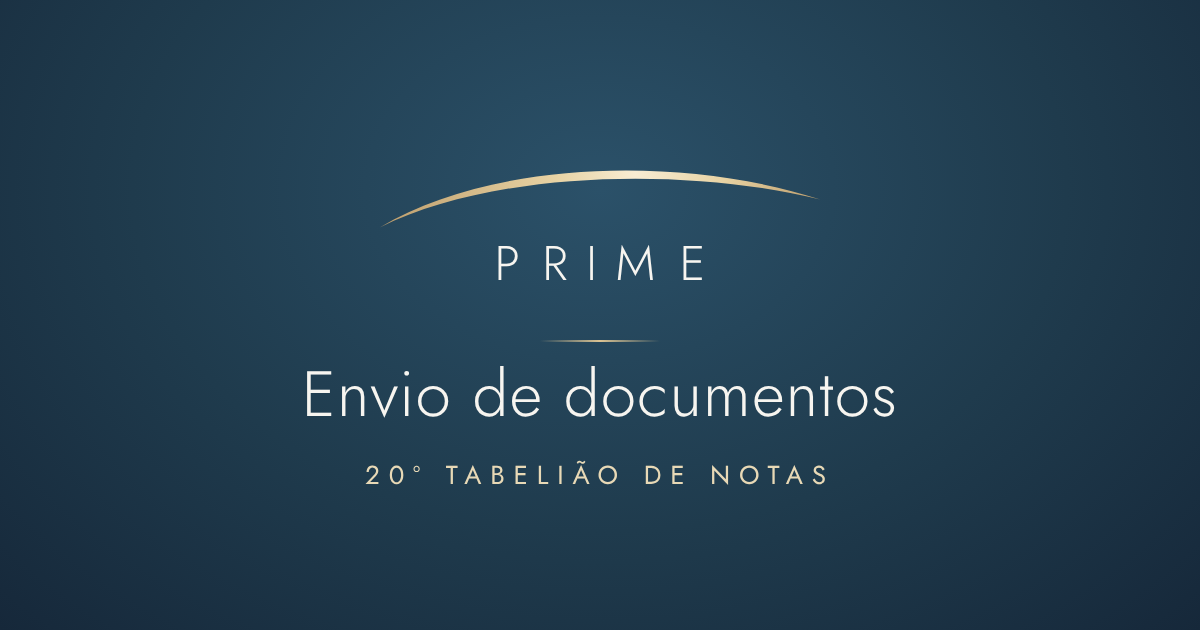
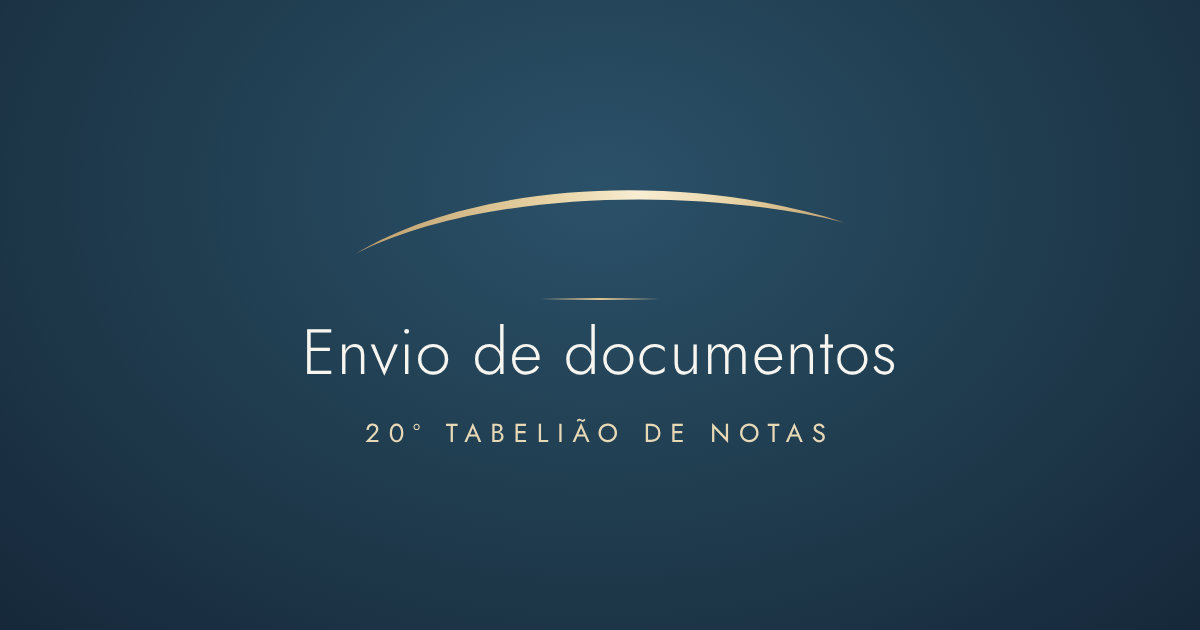
Link de envio: topo sem PRIME com a escrevente, regime para todo casado, preenchimento do celular e falecido do inventário com estado civil na data do óbito
Claude-Session: https://claude.ai/code/session_013kvdtZQRheQGSJimNJpCGS

diff --git a/enviar.html b/enviar.html
@@ -24,14 +24,17 @@
 }
 *{box-sizing:border-box;margin:0}
 [hidden]{display:none!important}
-html{-webkit-text-size-adjust:100%}
+html{-webkit-text-size-adjust:100%;scroll-padding-bottom:170px;scroll-padding-top:20px}
 body{font-family:'Inter',-apple-system,BlinkMacSystemFont,'Segoe UI',sans-serif;background:var(--fundo);color:var(--tinta);
   font-size:17px;line-height:1.5;padding:0 16px calc(150px + env(safe-area-inset-bottom))}
 .miolo{max-width:600px;margin:0 auto}
-.topo{margin:0 -16px;padding:calc(22px + env(safe-area-inset-top)) 16px 18px;background:var(--petroleo);text-align:center}
-.topo svg{display:block;height:58px;width:auto;margin:0 auto}
-.orgao{font-family:'Jost',sans-serif;font-weight:400;font-size:13px;letter-spacing:.28em;text-indent:.28em;text-transform:uppercase;color:#E8D9B6;margin-top:6px}
-.titulo{text-align:center;padding:24px 0 6px}
+.topo{margin:0 -16px;padding:calc(24px + env(safe-area-inset-top)) 16px 20px;background:var(--petroleo);text-align:center}
+.topo svg{display:block;height:46px;width:auto;margin:0 auto}
+.orgao{font-family:'Jost',sans-serif;font-weight:400;font-size:15px;letter-spacing:.26em;text-indent:.26em;text-transform:uppercase;color:var(--champagne);margin-top:8px}
+.escrevente{margin-top:16px;font-size:15.5px;color:var(--tinta-2);line-height:1.5}
+.escrevente b{color:var(--tinta);font-weight:600}
+.escrevente a{color:var(--petroleo);font-weight:600;text-decoration:none;border-bottom:1.5px solid var(--champagne)}
+.titulo{text-align:center;padding:22px 0 6px}
 h1{font-family:'Jost',sans-serif;font-weight:400;font-size:32px;line-height:1.15;color:var(--tinta)}
 .sub{color:var(--tinta-2);font-size:16.5px;margin-top:8px}
 .ato{display:inline-block;margin-top:12px;padding:7px 16px;border:1.5px solid var(--linha-forte);border-radius:99px;background:var(--sup);font-size:15px;font-weight:500}
@@ -117,13 +120,14 @@ body.concluido .formulario,body.concluido .rodape,body.concluido .lgpd,body.inva
 <body>
 <div class="miolo">
   <header class="topo">
-    <svg viewBox="0 0 600 190" role="img" aria-label="PRIME"><defs><linearGradient id="arco" x1="0" y1="0" x2="1" y2="0"><stop offset="0%" stop-color="#BE9E6C"/><stop offset="40%" stop-color="#E8D3A4"/><stop offset="58%" stop-color="#F8EDD3"/><stop offset="78%" stop-color="#E8D3A4"/><stop offset="100%" stop-color="#BE9E6C"/></linearGradient></defs><path d="M64,98 C184,26 388,20 536,68 C388,32 184,38 64,98 Z" fill="url(#arco)"/><text x="300" y="154" text-anchor="middle" font-family="'Jost','Century Gothic','Futura',sans-serif" font-weight="300" font-size="52" fill="#F7F5F0"><tspan>P</tspan><tspan dx="24">R</tspan><tspan dx="20">I</tspan><tspan dx="20">M</tspan><tspan dx="26">E</tspan></text></svg>
-    <div class="orgao">20º Tabelião de Notas</div>
+    <svg viewBox="0 0 600 90" role="img" aria-label="20º Tabelião de Notas"><defs><linearGradient id="arco" x1="0" y1="0" x2="1" y2="0"><stop offset="0%" stop-color="#BE9E6C"/><stop offset="40%" stop-color="#E8D3A4"/><stop offset="58%" stop-color="#F8EDD3"/><stop offset="78%" stop-color="#E8D3A4"/><stop offset="100%" stop-color="#BE9E6C"/></linearGradient></defs><path d="M64,72 C184,0 388,-6 536,42 C388,6 184,12 64,72 Z" fill="url(#arco)"/></svg>
   </header>
   <div class="titulo">
     <h1>Envio de documentos</h1>
+    <div class="orgao">20º Tabelião de Notas</div>
     <p class="sub" id="intro">Preencha os seus dados e, no fim, anexe os documentos. Não precisa de cadastro nem senha.</p>
     <span class="ato" id="ato" hidden></span>
+    <p class="escrevente">Escrevente <b>Shirley Dantas</b><br><a href="https://wa.me/5511954929643" rel="noopener">WhatsApp (11) 95492-9643</a></p>
   </div>
 
   <div class="formulario" id="formulario"></div>
@@ -160,7 +164,7 @@ const kb=n=>n>1048576?(n/1048576).toFixed(1).replace('.',',')+' MB':Math.max(1,M
 
 const token=(location.pathname.match(/\/e\/([A-Za-z0-9_-]+)/)||[])[1]||new URLSearchParams(location.search).get('t')||'';
 let pedido=null;
-const E={ pessoas:{}, campos:{}, banco:{}, filhos:[], adv:{}, clausulas:{}, obs:'', arquivos:{} }; // arquivos: chave -> [{id,file,estado,erro,pct}]
+const E={ pessoas:{}, falecidos:{}, campos:{}, banco:{}, filhos:[], adv:{}, clausulas:{}, obs:'', arquivos:{} }; // arquivos: chave -> [{id,file,estado,erro,pct}]
 let seq=0, enviando=false;
 
 // ── Carregar o pedido ─────────────────────────────────────────────────
@@ -178,6 +182,7 @@ async function carregar(){
   pedido.blocos.forEach(b=>{
     if(b.k==='pessoa') E.pessoas[b.id]=(b.papeis||['Parte']).map(p=>novaPessoa(p));
     if(b.k==='filhos') E.filhos=[];
+    if(b.k==='falecido') E.falecidos[b.id]={nome:'',ec:'',regime:'',conj:{nome:'',prof:''}};
   });
   desenharTudo();
 }
@@ -277,6 +282,19 @@ function certidoes(p,chave,b){
   else if(ec==='Separado(a)') slot(chave+'.cert','Certidão de casamento, com a averbação da separação');
   else slot(chave+'.cert','Certidão de estado civil',false,'Nascimento (solteiro) ou casamento (casado, divorciado, separado ou viúvo). Escolha o estado civil acima e o nome certo aparece.');
 }
+// O endereço mora num bloco próprio, e é só ele que se refaz quando o CEP responde: o resto da
+// página (e o que a pessoa está digitando) não se mexe.
+function htmlEndereco(b,i){
+  const p=E.pessoas[b.id][i], k=`${b.id}.${i}`, A=`data-b="${b.id}" data-i="${i}"`;
+  if(p.rua&&p.cidade&&!p.editEnd) return `<div class="campo"><label>Endereço</label><div class="dica" style="margin:0;color:var(--tinta);font-size:16.5px">${esc([p.rua,p.bairro,[p.cidade,p.uf].filter(Boolean).join('/')].filter(Boolean).join(' — '))} <button type="button" class="remover" data-editend="${b.id}|${i}" style="padding:4px 8px">Editar</button></div></div>`+input('Complemento',p.compl,`${A} data-f="compl" autocomplete="address-line2"`);
+  return input('Rua',p.rua,`${A} data-f="rua" id="rua-${k}" autocomplete="address-line1"`,true)+
+    `<div class="duas">${input('Complemento',p.compl,`${A} data-f="compl" autocomplete="address-line2"`)}${input('Bairro',p.bairro,`${A} data-f="bairro" id="bairro-${k}" autocomplete="address-level3"`)}</div>`+
+    `<div class="tres">${input('Cidade',p.cidade,`${A} data-f="cidade" id="cidade-${k}" autocomplete="address-level2"`)}<div class="campo"><label>UF</label><select ${A} data-f="uf" id="uf-${k}" autocomplete="address-level1"><option value=""></option>${UFS.map(u=>`<option${u===p.uf?' selected':''}>${u}</option>`).join('')}</select></div></div>`;
+}
+function refazEndereco(blocoId,i){
+  const el=document.getElementById(`end-${blocoId}.${i}`), b=pedido.blocos.find(x=>x.id===blocoId);
+  if(el&&b) el.innerHTML=htmlEndereco(b,i);
+}
 function htmlPessoa(b,i,n){
   const lista=E.pessoas[b.id], p=lista[i], k=`${b.id}.${i}`, A=`data-b="${b.id}" data-i="${i}"`;
   const simples=!!b.simples;
@@ -284,18 +302,14 @@ function htmlPessoa(b,i,n){
   let h=`<div class="bloco" data-bloco="${b.id}"><h2><span class="num${p.nome?' ok':''}">${n}</span>${esc(p.papel)}</h2>`;
   h+=input('Nome completo',p.nome,`${A} data-f="nome" autocomplete="name"`,true);
   if(!simples) h+=select('Estado civil',p.ec,ESTADOS_CIVIS,`${A} data-f="ec"`,true);
-  h+=input('Profissão',p.prof,`${A} data-f="prof"`,true);
-  h+=`<div class="duas"><div>${input('CEP',p.cep,`${A} data-f="cep" inputmode="numeric" autocomplete="off" maxlength="9"`,true)}</div><div>${input('Número',p.num,`${A} data-f="num" autocomplete="off"`,true)}</div></div><div class="dica" id="cepmsg-${k}" hidden style="color:var(--critico);margin:-6px 0 10px"></div>`;
-  const fim=p.rua&&p.cidade&&!p.editEnd;
-  if(fim) h+=`<div class="campo"><label>Endereço</label><div class="dica" style="margin:0;color:var(--tinta);font-size:16.5px">${esc([p.rua,p.bairro,[p.cidade,p.uf].filter(Boolean).join('/')].filter(Boolean).join(' — '))} <button type="button" class="remover" data-editend="${b.id}|${i}" style="padding:4px 8px">Editar</button></div></div>`+input('Complemento',p.compl,`${A} data-f="compl"`);
-  else{
-    h+=input('Rua',p.rua,`${A} data-f="rua" id="rua-${k}" autocomplete="off"`,true);
-    h+=`<div class="duas">${input('Complemento',p.compl,`${A} data-f="compl"`)}${input('Bairro',p.bairro,`${A} data-f="bairro" id="bairro-${k}"`)}</div>`;
-    h+=`<div class="tres">${input('Cidade',p.cidade,`${A} data-f="cidade" id="cidade-${k}"`)}<div class="campo"><label>UF</label><select ${A} data-f="uf" id="uf-${k}"><option value=""></option>${UFS.map(u=>`<option${u===p.uf?' selected':''}>${u}</option>`).join('')}</select></div></div>`;
-  }
+  h+=input('Profissão',p.prof,`${A} data-f="prof" autocomplete="organization-title"`,true);
+  h+=`<div class="duas"><div>${input('CEP',p.cep,`${A} data-f="cep" inputmode="numeric" autocomplete="postal-code" maxlength="9"`,true)}</div><div>${input('Número',p.num,`${A} data-f="num" autocomplete="off"`,true)}</div></div><div class="dica" id="cepmsg-${k}" hidden style="color:var(--critico);margin:-6px 0 10px"></div>`;
+  h+=`<div id="end-${k}">${htmlEndereco(b,i)}</div>`;
   // O que vem depois dos dados da pessoa: se é casada, o regime e o cônjuge logo em seguida.
+  if(!simples&&p.ec==='Casado(a)'){
+    h+=opcoesRadio('Regime de bens do casamento',p.regime,REGIMES,`${A} data-f="regime"`,true,`regime-${k}`);
+  }
   if(!simples&&p.ec==='Casado(a)'&&b.conjuge){
-    h+=opcoesRadio('Regime de bens do casamento',p.regime,REGIMES,`${A} data-f="regime"`,false,`regime-${k}`);
     h+=`<div class="sec-conj"><h3 style="margin-top:0">Dados do cônjuge</h3>`+
       input('Nome completo do cônjuge',p.conj.nome,`${A} data-c="nome"`,true)+input('Profissão do cônjuge',p.conj.prof,`${A} data-c="prof"`,true)+
       `<label class="marca"><input type="checkbox" ${A} data-c="mesmo"${p.conj.mesmo?' checked':''}> Mora no mesmo endereço</label>`+
@@ -305,15 +319,37 @@ function htmlPessoa(b,i,n){
   slot(k+'.rg','RG ou CNH (frente e verso)',false,DICA_CPF);
   if(!simples){
     certidoes(p,k,b);
-    if(p.ec==='Casado(a)'&&b.conjuge){
-      if(REGIMES_COM_PACTO.includes(p.regime)){ slot(k+'.pacto','Escritura do pacto antenupcial'); slot(k+'.pactoreg','Certidão do registro do pacto no Registro de Imóveis'); }
-      slot(k+'.rgconj','RG ou CNH do cônjuge',false,DICA_CPF);
-    }
+    if(p.ec==='Casado(a)'&&REGIMES_COM_PACTO.includes(p.regime)){ slot(k+'.pacto','Escritura do pacto antenupcial'); slot(k+'.pactoreg','Certidão do registro do pacto no Registro de Imóveis'); }
+    if(p.ec==='Casado(a)'&&b.conjuge) slot(k+'.rgconj','RG ou CNH do cônjuge',false,DICA_CPF);
   }
   if(lista.length>1&&i>=(b.papeis||[]).length) h+=`<div class="repete"><span></span><button class="remover" data-remover="${b.id}|${i}">Remover esta pessoa</button></div>`;
   return h+'</div>';
 }
+// O falecido: o estado civil que ele tinha na data do óbito decide a certidão, o regime e o cônjuge.
+function htmlFalecido(b,n){
+  const f=E.falecidos[b.id], A=`data-fal="${b.id}"`;
+  GRUPO='Falecido(a)'+(f.nome?' — '+f.nome:'');
+  let h=`<div class="bloco"><h2><span class="num${f.nome?' ok':''}">${n}</span>Falecido(a)</h2>`;
+  h+=input('Nome completo do falecido(a)',f.nome,`${A} data-f="nome"`,true);
+  h+=select('Estado civil na data do óbito',f.ec,ESTADOS_CIVIS,`${A} data-f="ec"`,true);
+  if(f.ec==='Casado(a)'){
+    h+=opcoesRadio('Regime de bens do casamento',f.regime,REGIMES,`${A} data-f="regime"`,true,`regime-${b.id}`);
+    h+=`<div class="sec-conj"><h3 style="margin-top:0">Dados do cônjuge</h3>`+input('Nome completo do cônjuge',f.conj.nome,`${A} data-fc="nome"`,true)+input('Profissão do cônjuge',f.conj.prof,`${A} data-fc="prof"`)+`</div>`;
+  }
+  slot(b.id+'.rg','RG ou CNH do falecido(a) (com o CPF)',false,DICA_CPF);
+  slot(b.id+'.obito','Certidão de óbito');
+  if(f.ec==='Solteiro(a)') slot(b.id+'.cert','Certidão de nascimento');
+  else if(f.ec==='Casado(a)'){
+    slot(b.id+'.cert','Certidão de casamento');
+    if(REGIMES_COM_PACTO.includes(f.regime)){ slot(b.id+'.pacto','Escritura do pacto antenupcial'); slot(b.id+'.pactoreg','Certidão do registro do pacto no Registro de Imóveis'); }
+    slot(b.id+'.rgconj','RG ou CNH do cônjuge',false,DICA_CPF);
+  }
+  else if(f.ec) slot(b.id+'.cert',f.ec==='Viúvo(a)'?'Certidão de casamento, com a averbação do óbito do cônjuge':f.ec==='Divorciado(a)'?'Certidão de casamento, com a averbação do divórcio':'Certidão de casamento, com a averbação da separação');
+  else slot(b.id+'.cert','Certidão de estado civil',false,'Escolha acima o estado civil na data do óbito e o nome certo aparece.');
+  return h+'</div>';
+}
 function htmlBloco(b,n){
+  if(b.k==='falecido') return htmlFalecido(b,n.v++);
   if(b.k==='pessoa'){
     let h=E.pessoas[b.id].map((_,i)=>htmlPessoa(b,i,n.v++)).join('');
     const opt=(b.papeis||['Parte']);
@@ -387,7 +423,16 @@ function htmlCampo(bid,c){
   if(c.tipo==='moeda') return input(c.rotulo,v,`${A} inputmode="decimal" placeholder="0,00"`,!c.opcional);
   return input(c.rotulo,v,A,!c.opcional);
 }
+function marcaFoco(){
+  const a=document.activeElement; if(!a||a===document.body||!a.closest||!a.closest('#formulario')) return null;
+  const sel=a.id?`#${CSS.escape(a.id)}`:['data-b','data-i','data-f','data-c','data-cb','data-banco','data-fal','data-fc','data-adv','data-filho'].filter(x=>a.hasAttribute(x)).map(x=>`[${x}="${a.getAttribute(x)}"]`).join('');
+  return sel&&a.tagName!=='BUTTON'&&a.type!=='file'&&a.type!=='radio'&&a.type!=='checkbox'?{sel:a.tagName.toLowerCase()+sel,ini:a.selectionStart,fim:a.selectionEnd}:null;
+}
+function voltaFoco(m){
+  if(!m) return; try{ const el=document.querySelector(m.sel); if(!el) return; el.focus({preventScroll:true}); if(m.ini!=null&&el.setSelectionRange) el.setSelectionRange(m.ini,m.fim); }catch(_){ }
+}
 function desenharTudo(){
+  const foco=marcaFoco(), rolagem=window.scrollY;
   const n={v:1};
   FIM=[]; GRUPO='';
   const corpo=pedido.blocos.map(b=>htmlBloco(b,n)).join('');
@@ -395,6 +440,7 @@ function desenharTudo(){
   FIM=null;
   $('#formulario').innerHTML=corpo+docs+
     `<div class="bloco"><h2><span class="num">${n.v}</span>Observações</h2><div class="campo"><label>Quer deixar algum recado para a nossa equipe, para constar na minuta? <span class="opcional-nota">(opcional)</span></label><textarea id="obs">${esc(E.obs)}</textarea></div></div>`;
+  voltaFoco(foco); window.scrollTo(0,rolagem);
   resumo();
 }
 
@@ -427,6 +473,7 @@ const dataOk=v=>{ const m=String(v||'').match(/^(\d{2})\/(\d{2})\/(\d{4})$/); if
 raiz.addEventListener('input',e=>{
   const t=e.target, f=t.dataset.f; if(t.id==='obs'){E.obs=t.value;return;}
   if(t.dataset.mascara==='data'){ const v=mascaraData(t.value); if(v!==t.value) t.value=v; }
+  if(t.dataset.fal!==undefined){ const f=E.falecidos[t.dataset.fal]; if(t.dataset.fc) f.conj[t.dataset.fc]=t.value; else if(t.dataset.f!=='ec'&&t.dataset.f!=='regime') f[t.dataset.f]=t.value; resumo(); return; }
   if(t.dataset.b!==undefined){
     const p=E.pessoas[t.dataset.b][+t.dataset.i];
     if(t.dataset.c) { p.conj[t.dataset.c]=t.type==='checkbox'?t.checked:t.value; return; }
@@ -441,6 +488,7 @@ raiz.addEventListener('input',e=>{
 raiz.addEventListener('change',e=>{
   const t=e.target;
   if(t.dataset.f==='cep'&&t.dataset.b!==undefined){ const p=E.pessoas[t.dataset.b][+t.dataset.i]; p.cep=t.value; cep(t,p); }
+  if(t.dataset.fal!==undefined){ const f=E.falecidos[t.dataset.fal]; if(t.dataset.fc){ f.conj[t.dataset.fc]=t.value; resumo(); return; } f[t.dataset.f]=t.value; if(t.dataset.f==='ec'||t.dataset.f==='regime'){ desenharTudo(); return; } resumo(); return; }
   if(t.dataset.slot){ adicionar(t.dataset.slot,[...t.files]); t.value=''; return; }
   if(t.dataset.clausula){ E.clausulas[t.dataset.clausula]=t.checked; return; }
   if(t.dataset.b!==undefined){
@@ -461,7 +509,7 @@ raiz.addEventListener('click',e=>{
   else if(b.dataset.tirar){ const [c,id]=b.dataset.tirar.split('|'); tirar(c,+id); }
   else if(b.dataset.mais){ const bl=pedido.blocos.find(x=>x.id===b.dataset.mais); E.pessoas[bl.id].push(novaPessoa(proximoPapel(bl))); desenharTudo(); }
   else if(b.dataset.remover){ const [id,i]=b.dataset.remover.split('|'); E.pessoas[id].splice(+i,1); desenharTudo(); }
-  else if(b.dataset.editend){ const [id,i]=b.dataset.editend.split('|'); E.pessoas[id][+i].editEnd=true; desenharTudo(); }
+  else if(b.dataset.editend){ const [id,i]=b.dataset.editend.split('|'); E.pessoas[id][+i].editEnd=true; refazEndereco(id,+i); }
   else if(b.dataset.maisfilho){ E.filhos.push({}); desenharTudo(); }
   else if(b.dataset.rmfilho){ E.filhos.splice(+b.dataset.rmfilho,1); desenharTudo(); }
 });
@@ -479,8 +527,9 @@ async function cep(t,p){
     if(!j||j.erro){ aviso('Não achei esse CEP. Confira os números ou preencha a rua à mão.'); return; }
     cacheCep[d]=j; p.cepBuscado=d; aviso('');
     if(j.logradouro) p.rua=j.logradouro; if(j.bairro) p.bairro=j.bairro; if(j.localidade) p.cidade=j.localidade; if(j.uf) p.uf=j.uf;
-    p.editEnd=false; desenharTudo();
-    const n=document.querySelector(`[data-b="${t.dataset.b}"][data-i="${t.dataset.i}"][data-f="num"]`); if(n) n.focus();
+    p.editEnd=false; refazEndereco(t.dataset.b,+t.dataset.i); resumo();
+    // Só leva o cursor para o número se a pessoa ainda estiver no CEP: nunca rouba o campo em que ela está.
+    if(document.activeElement===t){ const n=document.querySelector(`[data-b="${t.dataset.b}"][data-i="${t.dataset.i}"][data-f="num"]`); if(n) n.focus(); }
   }catch(_){ aviso('Não consegui buscar o CEP agora. Preencha a rua, o bairro e a cidade à mão.'); }
 }
 
@@ -489,10 +538,18 @@ function faltas(){
   const f=[]; if(!pedido) return f;
   const tem=c=>(E.arquivos[c]||[]).some(x=>x.estado!=='erro');
   pedido.blocos.forEach(b=>{
-    if(b.k==='pessoa') E.pessoas[b.id].forEach((p,i)=>{
+    if(b.k==='falecido'){
+      const d=E.falecidos[b.id], k=b.id;
+      if(!d.nome) f.push('Falecido(a): nome'); if(!d.ec) f.push('Falecido(a): estado civil na data do óbito');
+      if(d.ec==='Casado(a)'){ if(!d.regime) f.push('Falecido(a): regime de bens'); if(!d.conj.nome) f.push('Falecido(a): dados do cônjuge'); }
+      if(!tem(k+'.rg')) f.push('Falecido(a): RG ou CNH'); if(!tem(k+'.obito')) f.push('Falecido(a): certidão de óbito');
+      if(d.ec&&!tem(k+'.cert')) f.push('Falecido(a): certidão de '+(d.ec==='Solteiro(a)'?'nascimento':'casamento'));
+    }
+    else if(b.k==='pessoa') E.pessoas[b.id].forEach((p,i)=>{
       const k=`${b.id}.${i}`, q=p.papel;
       if(!p.nome) f.push(`${q}: nome`); if(!b.simples&&!p.ec) f.push(`${q}: estado civil`); if(!p.prof) f.push(`${q}: profissão`);
       if(!(p.rua&&p.num)) f.push(`${q}: endereço`);
+      if(!b.simples&&p.ec==='Casado(a)'&&!p.regime) f.push(`${q}: regime de bens`);
       if(!tem(k+'.rg')) f.push(`${q}: RG ou CNH`);
       if(!b.simples&&p.ec&&!tem(k+'.cert')) f.push(`${q}: certidão de estado civil`);
       if(p.ec==='Casado(a)'&&b.conjuge&&!p.conj.nome) f.push(`${q}: dados do cônjuge`);
@@ -545,6 +602,10 @@ async function chamar(corpo){
 }
 function rotuloDoSlot(chave){
   const nomes={rg:'RG_CNH',cpf:'CPF',cert:'CERTIDAO_ESTADO_CIVIL',obito:'CERTIDAO_OBITO_CONJUGE',pacto:'PACTO_ANTENUPCIAL',pactoreg:'REGISTRO_DO_PACTO',rgconj:'RG_CNH_CONJUGE'};
+  for(const b of pedido.blocos) if(b.k==='falecido'&&chave.startsWith(b.id+'.')){
+    const suf=chave.slice(b.id.length+1), fal={rg:'RG_CNH_FALECIDO',obito:'CERTIDAO_OBITO_FALECIDO',cert:'CERTIDAO_ESTADO_CIVIL_FALECIDO',pacto:'PACTO_ANTENUPCIAL_FALECIDO',pactoreg:'REGISTRO_DO_PACTO_FALECIDO',rgconj:'RG_CNH_CONJUGE_DO_FALECIDO'};
+    if(fal[suf]) return {pessoa:E.falecidos[b.id].nome||'Falecido',papel:'Falecido(a)',tipo:fal[suf]};
+  }
   const m=chave.match(/^(.+)\.(\d+)\.(\w+)$/);
   if(m&&E.pessoas[m[1]]){ const p=E.pessoas[m[1]][+m[2]]; return {pessoa:p.nome||p.papel,papel:p.papel,tipo:nomes[m[3]]||m[3].toUpperCase()}; }
   if(m&&pedido.blocos.some(b=>b.k==='filhos'&&b.id===m[1])) return {pessoa:(E.filhos[+m[2]]||{}).nome||('Filho '+(+m[2]+1)),papel:'Filho(a)',tipo:'RG_CNH'};
@@ -560,6 +621,7 @@ function montarDados(){
   return { ato:pedido.ato, enviadoEm:new Date().toISOString(),
     pessoas:Object.entries(E.pessoas).flatMap(([bloco,l])=>l.map(p=>({bloco,papel:p.papel,nome:p.nome,estadoCivil:p.ec,profissao:p.prof,endereco:end(p),regime:p.regime||'',
       conjuge:p.ec==='Casado(a)'&&(p.conj.nome)?{nome:p.conj.nome,profissao:p.conj.prof,endereco:p.conj.mesmo?end(p):p.conj.end}:null}))),
+    falecidos:Object.entries(E.falecidos).map(([bloco,d])=>({bloco,nome:d.nome,estadoCivil:d.ec,regime:d.ec==='Casado(a)'?d.regime:'',conjuge:d.ec==='Casado(a)'&&d.conj.nome?{nome:d.conj.nome,profissao:d.conj.prof}:null})),
     campos:E.campos, banco:E.banco, advogado:E.adv, filhos:E.filhos, clausulas:Object.keys(E.clausulas).filter(k=>E.clausulas[k]), observacoes:E.obs };
 }
 async function enviarArquivo(chave,it){

diff --git a/pedido-docs.js b/pedido-docs.js
@@ -188,7 +188,7 @@
       if (pd !== 'donatario') S.push(secao('clausulas', 'Cláusulas', Object.keys(CLAUSULAS).map(function (k) { return item('clausula.' + k, CLAUSULAS[k], false); }), { tipo: 'clausulas' }));
     } else if (modelo === 'inventario') {
       S.push(secao('lista', '', [
-        item('falecido', 'Falecido(a) e cônjuge: RG, CPF, certidão de óbito e de casamento; pacto antenupcial, se houver'),
+        item('falecido', 'Falecido(a): RG, CPF, certidão de óbito, estado civil na data do óbito (e regime de bens e dados do cônjuge, se casado(a))'),
         item('falecido.testamento', 'Certidão de inexistência de testamento (você costuma buscar)', false),
         pessoa('herdeiros', 'Herdeiros', { papeis: ['Herdeiro(a)'], obito: true }),
         adv(item('advogado', 'Advogado(a): OAB, estado civil e endereço'))
@@ -322,9 +322,9 @@
     'imovel.contrato': DOC('Contrato', true),
     'bem.mat': DOC('Matrícula do imóvel'),
     'bem.divida': { k: 'docs', titulo: 'Dívida', docs: [{ id: 'contrato', rotulo: 'Contrato ou histórico da dívida' }], campos: [{ id: 'valor', rotulo: 'Valor da dívida (R$)', tipo: 'moeda' }] },
-    'falecido': { k: 'docs', titulo: 'Falecido(a)', campos: [{ id: 'nome', rotulo: 'Nome completo do falecido(a)', tipo: 'texto' }],
-      docs: [{ id: 'rg', rotulo: 'RG e CPF do falecido(a)' }, { id: 'obito', rotulo: 'Certidão de óbito' }, { id: 'casamento', rotulo: 'Certidão de casamento' },
-        { id: 'pacto', rotulo: 'Pacto antenupcial (se houver)', opcional: true }, { id: 'rgconj', rotulo: 'RG e CPF do cônjuge (se houver)', opcional: true }] },
+    // O falecido tem estado civil NA DATA DO ÓBITO: a página pergunta, e só então pede a certidão certa
+    // (nascimento, casamento com averbação) ou, se casado, o regime, o pacto e os dados do cônjuge.
+    'falecido': { k: 'falecido', titulo: 'Falecido(a)' },
     'falecido.testamento': DOC('Certidão de inexistência de testamento'),
     'advogado': { k: 'advogado', titulo: 'Advogado(a)' },
     'familia.filhos': { k: 'filhos', titulo: 'Filhos' },

diff --git a/apps-script/cartorio-drive-api.js b/apps-script/cartorio-drive-api.js
@@ -1553,6 +1553,13 @@ function montarFichaCliente(d, dataTxt, rotulos) {
       L.push("  Cônjuge: " + textoCliente(p.conjuge.nome, 120) + (p.conjuge.profissao ? ", " + textoCliente(p.conjuge.profissao, 80) : "") + (p.conjuge.endereco ? ", " + textoCliente(p.conjuge.endereco, 300) : ""));
     }
   });
+  (Array.isArray(d.falecidos) ? d.falecidos : []).slice(0, 5).forEach(function (f) {
+    f = f || {};
+    L.push("", "FALECIDO(A) — " + textoCliente(f.nome, 120));
+    if (f.estadoCivil) L.push("  Estado civil na data do óbito: " + textoCliente(f.estadoCivil, 40));
+    if (f.regime) L.push("  Regime de bens: " + textoCliente(f.regime, 80));
+    if (f.conjuge && f.conjuge.nome) L.push("  Cônjuge: " + textoCliente(f.conjuge.nome, 120) + (f.conjuge.profissao ? ", " + textoCliente(f.conjuge.profissao, 80) : ""));
+  });
   var c = d.campos && typeof d.campos === "object" ? d.campos : {};
   Object.keys(c).slice(0, 40).forEach(function (b) {
     var campos = c[b] && typeof c[b] === "object" ? c[b] : {};

diff --git a/CLAUDE.md b/CLAUDE.md
@@ -984,6 +984,15 @@ Regras que **não devem ser mexidas sem perguntar**:
 - **A prévia do WhatsApp tem imagem** (`og-envio.png`, 1200×630, com a marca PRIME) e o link é curto
   (`/e/{código}`, reescrita no `vercel.json`). Com o link, **a mensagem é curta** (recado + link): a lista já
   está na página. O endereço do link ainda é o do projeto até haver um domínio neutro (`ENVIO_BASE_URL`).
+- **O topo não leva o nome PRIME**: só o arco champagne na faixa petróleo; abaixo, *Envio de documentos*,
+  *20º Tabelião de Notas* e, por último, a escrevente (Shirley Dantas, WhatsApp (11) 95492-9643, com link).
+- **Casado, em qualquer ato, abre o regime de bens** (3 opções, obrigatório); os dados do cônjuge vêm junto
+  onde o ato os pede. **Viúvo**: certidão de casamento com averbação do óbito; a de óbito do cônjuge só na
+  lista de inventário. **O falecido do inventário** (`k:'falecido'`) pergunta o estado civil **na data do
+  óbito**: solteiro → nascimento; casado → regime, dados do cônjuge, casamento (e pacto + registro se o regime
+  exige); viúvo/divorciado/separado → casamento com averbação; certidão de óbito e RG/CPF sempre.
+- **Preenchimento do celular**: os campos levam o `autocomplete` certo (nome, CEP, rua, cidade…), e o que
+  responde depois (o CEP) troca **só o bloco do endereço**, sem mexer no campo em que a pessoa está.
 - A página usa letra grande e tinta cheia (17 px, títulos de documento 18 px em negrito); a marca PRIME no topo.
 - **A certidão de estado civil aparece desde o início** (genérica até ela escolher o estado civil) e o
   endereço se recolhe depois do CEP (rua/bairro/cidade/UF viram uma linha com *Editar*).
